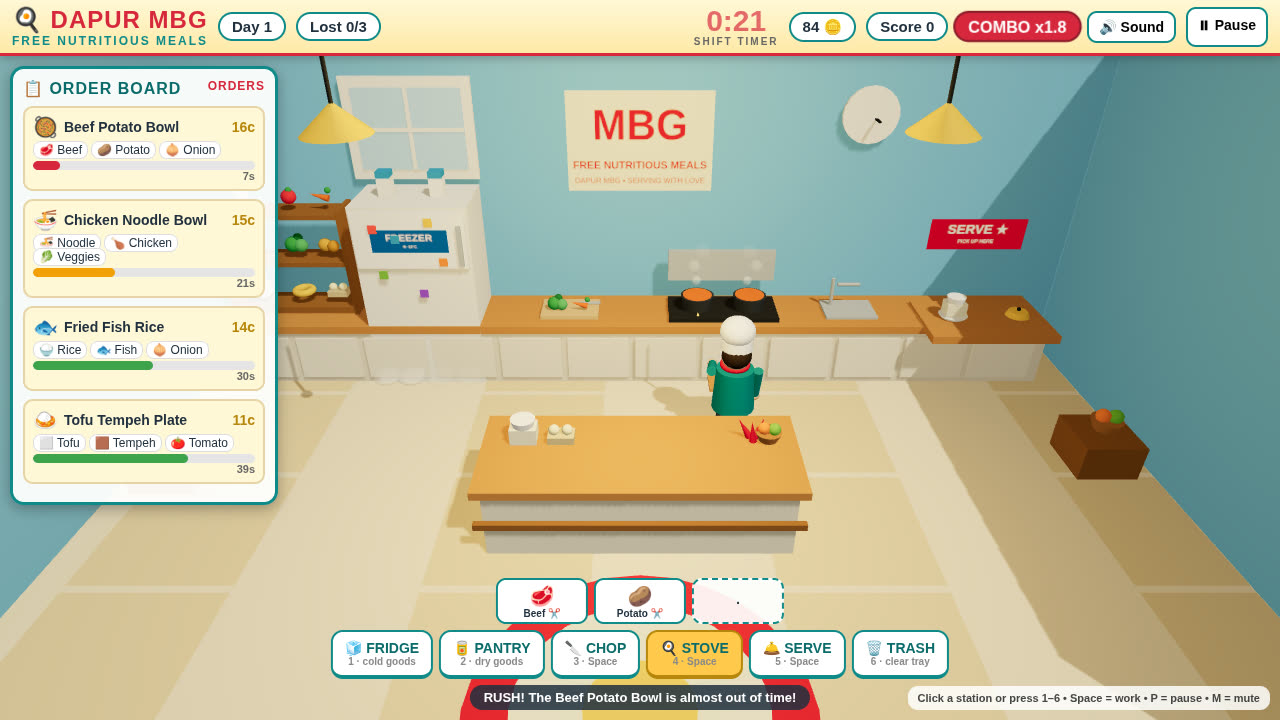
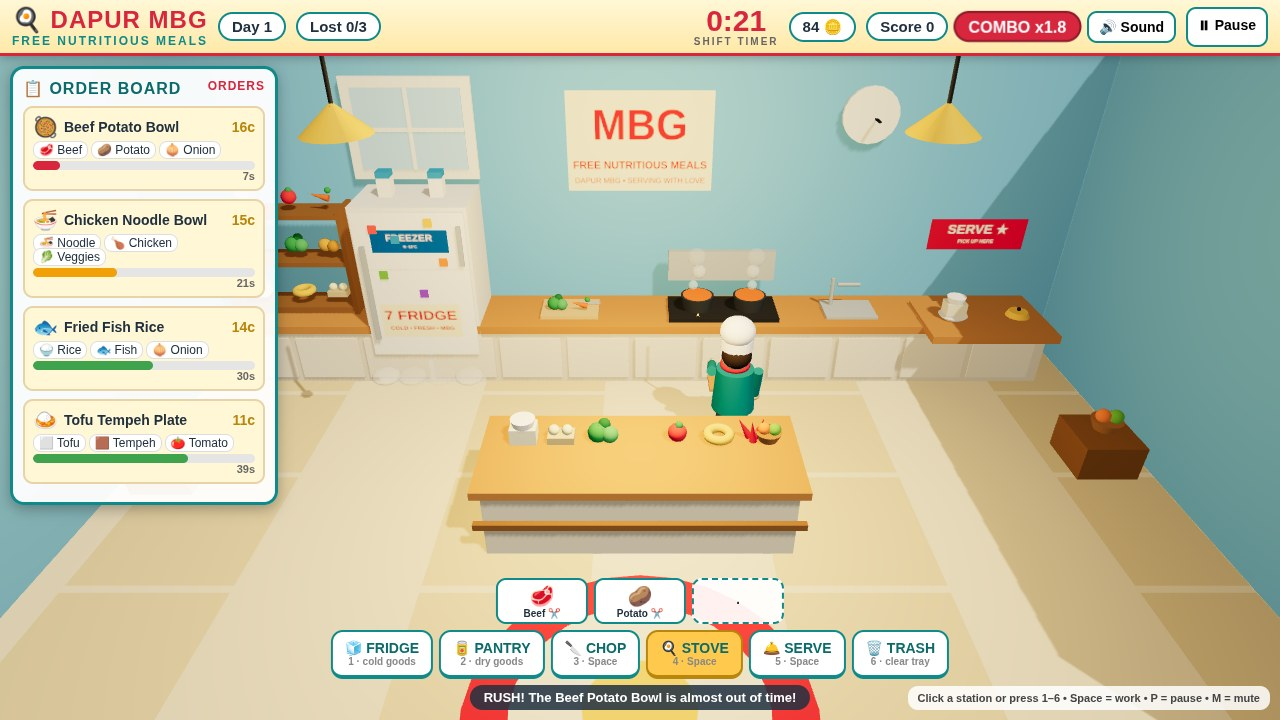
Polish round 2: clean cover, clearer fridge, richer food

diff --git a/game/src/kitchen.js b/game/src/kitchen.js
@@ -173,15 +173,40 @@ export function buildPlatedDish(dish) {
     const leaf = sph(0.045, 0x2c7a3a, -0.14 + i * 0.14, 0.19, 0.14);
     leaf.scale.set(1.4, 0.35, 0.9); g.add(leaf);
   }
-  // sauce drizzle: thin red/gold arc on the plate rim
+  // one dish-specific accent so no two plates garnish alike
+  if (has('fish')) {
+    // lemon wedge: flat yellow half-disc beside the fish
+    const lemon = cyl(0.09, 0.09, 0.02, 0xffe066, 0.13, 0.2, 0.1, 16); g.add(lemon);
+    const lemonSkin = cyl(0.095, 0.095, 0.015, 0xf2a007, 0.13, 0.19, 0.1, 16); g.add(lemonSkin);
+  } else if (has('tomato')) {
+    // tomato slice: red disc with a green leaf
+    const slice = cyl(0.09, 0.09, 0.025, 0xe63946, -0.13, 0.2, 0.1, 16); g.add(slice);
+    const seed = sph(0.03, 0xff8fa3, -0.13, 0.22, 0.1); g.add(seed);
+  } else if (has('fruit')) {
+    // orange slice: orange disc + a mint leaf
+    const orange = cyl(0.09, 0.09, 0.025, 0xff8c42, 0.12, 0.2, -0.1, 16); g.add(orange);
+    const mint = sph(0.05, 0x2c7a3a, 0.12, 0.23, -0.1); mint.scale.set(1.3, 0.3, 1); g.add(mint);
+  } else if (has('noodle')) {
+    // sesame seeds + spring-onion rings on noodle dishes
+    for (let i = 0; i < 4; i++) {
+      const seed = sph(0.018, 0xfff8dc, -0.12 + (i % 2) * 0.24, 0.21, -0.06 + Math.floor(i / 2) * 0.14, 6, 5);
+      g.add(seed);
+    }
+    for (let i = 0; i < 2; i++) {
+      const ring = new THREE.Mesh(new THREE.TorusGeometry(0.035, 0.012, 6, 12), mat(0x3fa34d, 0.6));
+      ring.rotation.x = Math.PI / 2; ring.position.set(0.02 + i * 0.12, 0.2, 0.14); g.add(ring);
+    }
+  }
+  // sauce drizzle: thin red/gold/orange arc on the plate rim
+  const drizzleColor = (has('chili') || has('tomato')) ? 0xd7263d : has('fruit') ? 0xff8c42 : 0xf2a007;
   const drizzle = new THREE.Mesh(
     new THREE.TorusGeometry(0.28, 0.015, 8, 24, Math.PI * 1.2),
-    new THREE.MeshStandardMaterial({ color: has('chili') ? 0xd7263d : 0xf2a007, roughness: 0.3 }));
+    new THREE.MeshStandardMaterial({ color: drizzleColor, roughness: 0.3 }));
   drizzle.rotation.x = Math.PI / 2; drizzle.rotation.z = 0.4; drizzle.position.y = 0.065; g.add(drizzle);
   // steam wisps (registered with the kitchen so they animate)
   for (let i = 0; i < 3; i++) {
-    const s = new THREE.Mesh(new THREE.SphereGeometry(0.07, 8, 6),
-      new THREE.MeshStandardMaterial({ color: 0xffffff, transparent: true, opacity: 0.45, roughness: 1 }));
+    const s = new THREE.Mesh(new THREE.SphereGeometry(0.09, 8, 6),
+      new THREE.MeshStandardMaterial({ color: 0xffffff, transparent: true, opacity: 0.55, roughness: 1 }));
     s.position.set(-0.1 + i * 0.1, 0.35, 0);
     s.userData.steam = true; s.userData.baseY = 0.35; s.userData.rise = i * 0.33;
     g.add(s);
@@ -245,10 +270,15 @@ export function buildKitchen(scene) {
   const fridge = new THREE.Group();
   const body = box(1.7, 2.9, 1.05, WHITE, 0, 1.45, 0, 0.5); fridge.add(body);
   const freezerDoor = box(1.62, 0.85, 0.08, 0xffffff, 0, 2.42, 0.55, 0.4); fridge.add(freezerDoor);
+  // hinge on the RIGHT side: the door swings open toward the chopping
+  // board (open floor), never toward the pantry rack on the left — so the
+  // open door, its "7 FRIDGE" label and the cold interior read clearly
+  // from the default / cover camera angle.
   const fridgeDoor = new THREE.Group(); // swings open
-  fridgeDoor.position.set(-0.81, 1.5, 0.55);
-  const doorPanel = box(1.62, 1.9, 0.08, 0xffffff, 0.81, 0, 0, 0.4); fridgeDoor.add(doorPanel);
-  const handle = box(0.07, 1.5, 0.06, STEEL, 1.5, 0.1, 0.08, 0.35); fridgeDoor.add(handle);
+  fridgeDoor.position.set(0.81, 1.5, 0.55);
+  const doorPanel = box(1.62, 1.9, 0.08, 0xffffff, -0.81, 0, 0, 0.4); fridgeDoor.add(doorPanel);
+  const handle = box(0.07, 1.5, 0.06, STEEL, -1.5, 0.1, 0.08, 0.35); fridgeDoor.add(handle);
+  fridge.add(fridgeDoor); // the door group must be in the scene to be seen
   const handleTop = box(0.07, 0.6, 0.06, STEEL, 0.72, 2.35, 0.6, 0.35); fridge.add(handleTop);
   // magnets: little coloured squares on the doors
   [[-0.5, 2.6, 0xff5a5a], [-0.2, 2.45, 0x3fa7d6], [0.3, 2.7, 0xffc94d], [-0.45, 1.9, 0x7bc043], [0.45, 2.1, 0xff8c42], [0.1, 1.6, 0x9b5de5]].forEach(([x, y, col]) => {
@@ -260,7 +290,7 @@ export function buildKitchen(scene) {
   badge.position.set(0, 2.42, 0.6); fridge.add(badge);
   const label = new THREE.Mesh(new THREE.PlaneGeometry(1.2, 0.55),
     new THREE.MeshStandardMaterial({ map: textTexture(['7 FRIDGE', 'COLD • FRESH • MBG'], 512, 256, '#fff7d6', '#d7263d'), roughness: 0.6 }));
-  label.position.set(0.81, -0.35, 0.06); fridgeDoor.add(label);
+  label.position.set(-0.81, -0.35, 0.06); fridgeDoor.add(label);
   // cold-air mist at the door base
   for (let i = 0; i < 4; i++) {
     const puff = new THREE.Mesh(new THREE.SphereGeometry(0.22, 10, 8),
@@ -302,8 +332,8 @@ export function buildKitchen(scene) {
       new THREE.MeshStandardMaterial({ color: 0xff9f1c, emissive: 0xff7b00, emissiveIntensity: 2 }));
     flame.position.set(px, 1.0, 0.28); stove.add(flame); animated.flames.push(flame);
     for (let i = 0; i < 3; i++) {
-      const s = new THREE.Mesh(new THREE.SphereGeometry(0.09, 8, 6),
-        new THREE.MeshStandardMaterial({ color: 0xffffff, transparent: true, opacity: 0.5, roughness: 1 }));
+      const s = new THREE.Mesh(new THREE.SphereGeometry(0.11, 8, 6),
+        new THREE.MeshStandardMaterial({ color: 0xffffff, transparent: true, opacity: 0.6, roughness: 1 }));
       s.position.set(px + (Math.random() - 0.5) * 0.15, 1.45 + i * 0.18, 0);
       s.userData.rise = i * 0.33; stove.add(s); animated.steam.push(s);
     }
@@ -340,8 +370,8 @@ export function buildKitchen(scene) {
   island.add(box(3.6, 0.9, 1.3, 0xe8e2d4, 0, 0.45, 0));
   island.add(box(3.8, 0.1, 1.5, WOOD, 0, 0.95, 0));
   island.add(box(3.8, 0.08, 0.08, WOOD_DARK, 0, 0.5, 0.72));
-  // ingredients waiting on the island
-  const islandGoods = [['rice', -1.4], ['egg', -0.95], ['chili', 1.35], ['fruit', 1.55]];
+  // ingredients waiting on the island (a full, busy counter)
+  const islandGoods = [['rice', -1.4], ['egg', -0.95], ['veggies', -0.45], ['tomato', 0.45], ['noodle', 0.95], ['chili', 1.35], ['fruit', 1.55]];
   islandGoods.forEach(([id, x]) => { const p = buildIngredientProp(id, 0.95); p.position.set(x, 1.0, -0.25); island.add(p); });
   island.position.set(0, 0, -0.7);
   root.add(island);
@@ -373,7 +403,7 @@ export function buildKitchen(scene) {
   function update(dt, t) {
     for (const s of animated.steam) {
       s.position.y = 1.45 + ((t * 0.35 + s.userData.rise) % 1) * 0.7;
-      s.material.opacity = 0.55 * (1 - ((t * 0.35 + s.userData.rise) % 1));
+      s.material.opacity = 0.65 * (1 - ((t * 0.35 + s.userData.rise) % 1));
       s.scale.setScalar(0.7 + ((t * 0.35 + s.userData.rise) % 1) * 0.9);
     }
     animated.mist.forEach((m, i) => {
@@ -384,14 +414,17 @@ export function buildKitchen(scene) {
     for (const s of animated.plateSteam) {
       const ph = (t * 0.4 + s.userData.rise) % 1;
       s.position.y = s.userData.baseY + ph * 0.5;
-      s.material.opacity = 0.5 * (1 - ph);
+      s.material.opacity = 0.6 * (1 - ph);
       s.scale.setScalar(0.8 + ph * 0.9);
     }
   }
 
   return {
     root, stations, island, fridgeDoor, update,
-    setFridgeOpen(open) { fridgeDoor.rotation.y = open ? -1.9 : 0; },
+    // 1.05 rad (~60°): the door stands diagonally out into the open floor,
+    // its "7 FRIDGE" face visible from the camera. (A full 1.9 rad swing
+    // turns the face edge-on to the default camera and the door vanishes.)
+    setFridgeOpen(open) { fridgeDoor.rotation.y = open ? 1.05 : 0; },
     registerPlateSteam(group) {
       animated.plateSteam.length = 0;
       group.traverse((o) => { if (o.userData && o.userData.steam) animated.plateSteam.push(o); });

diff --git a/game/src/game.js b/game/src/game.js
@@ -36,7 +36,7 @@ function init() {
   renderer.shadowMap.type = THREE.PCFSoftShadowMap;
   renderer.outputColorSpace = THREE.SRGBColorSpace;
   renderer.toneMapping = THREE.ACESFilmicToneMapping;
-  renderer.toneMappingExposure = 1.12;
+  renderer.toneMappingExposure = 1.14;
 
   scene = new THREE.Scene();
   scene.background = new THREE.Color(0x9fd8f7);
@@ -53,8 +53,8 @@ function init() {
   sun.shadow.camera.left = -9; sun.shadow.camera.right = 9;
   sun.shadow.camera.top = 9; sun.shadow.camera.bottom = -9;
   scene.add(sun);
-  const warm = new THREE.PointLight(0xffd27a, 25, 12, 1.8);
-  warm.position.set(0, 4.2, -0.6); scene.add(warm);
+  const warm = new THREE.PointLight(0xffd27a, 38, 12, 1.8);
+  warm.position.set(0, 3.8, -0.7); scene.add(warm); // warm pool over the island / food area
 
   kitchen = buildKitchen(scene);
   chef = buildChef();
@@ -328,6 +328,9 @@ function startGame() {
   state = 'playing';
   $('title-screen').classList.add('hidden');
   $('gameover-screen').classList.add('hidden');
+  // dock back to its default centered position (a shot may have moved it)
+  $('dock').style.left = '';
+  $('dock').style.transform = '';
   setHint('New shift! Check the order board, then grab ingredients.');
   renderOrders(); updateHUD();
 }
@@ -402,6 +405,11 @@ function applyShot(shot) {
     // sit in the open left half instead of hiding behind the title card
     ts.querySelector('.card').style.maxWidth = '500px';
     ts.querySelector('.card').style.padding = '20px 22px';
+    // dock to the bottom-LEFT: the PLATED banner is inside the dock, and a
+    // centered dock slides its right end under the right-side title card
+    // (z-index 20 over the dock's 10). Left-aligned it reads in full.
+    $('dock').style.left = '24px';
+    $('dock').style.transform = 'none';
     camera.position.set(1.1, 6.6, 6.6);
     camera.lookAt(-0.5, 0.9, -3.0);
     forceOrders([['sunshine-rice', 48], ['chicken-noodle', 40], ['beef-potato', 22], ['fruit-milk', 33]]);
